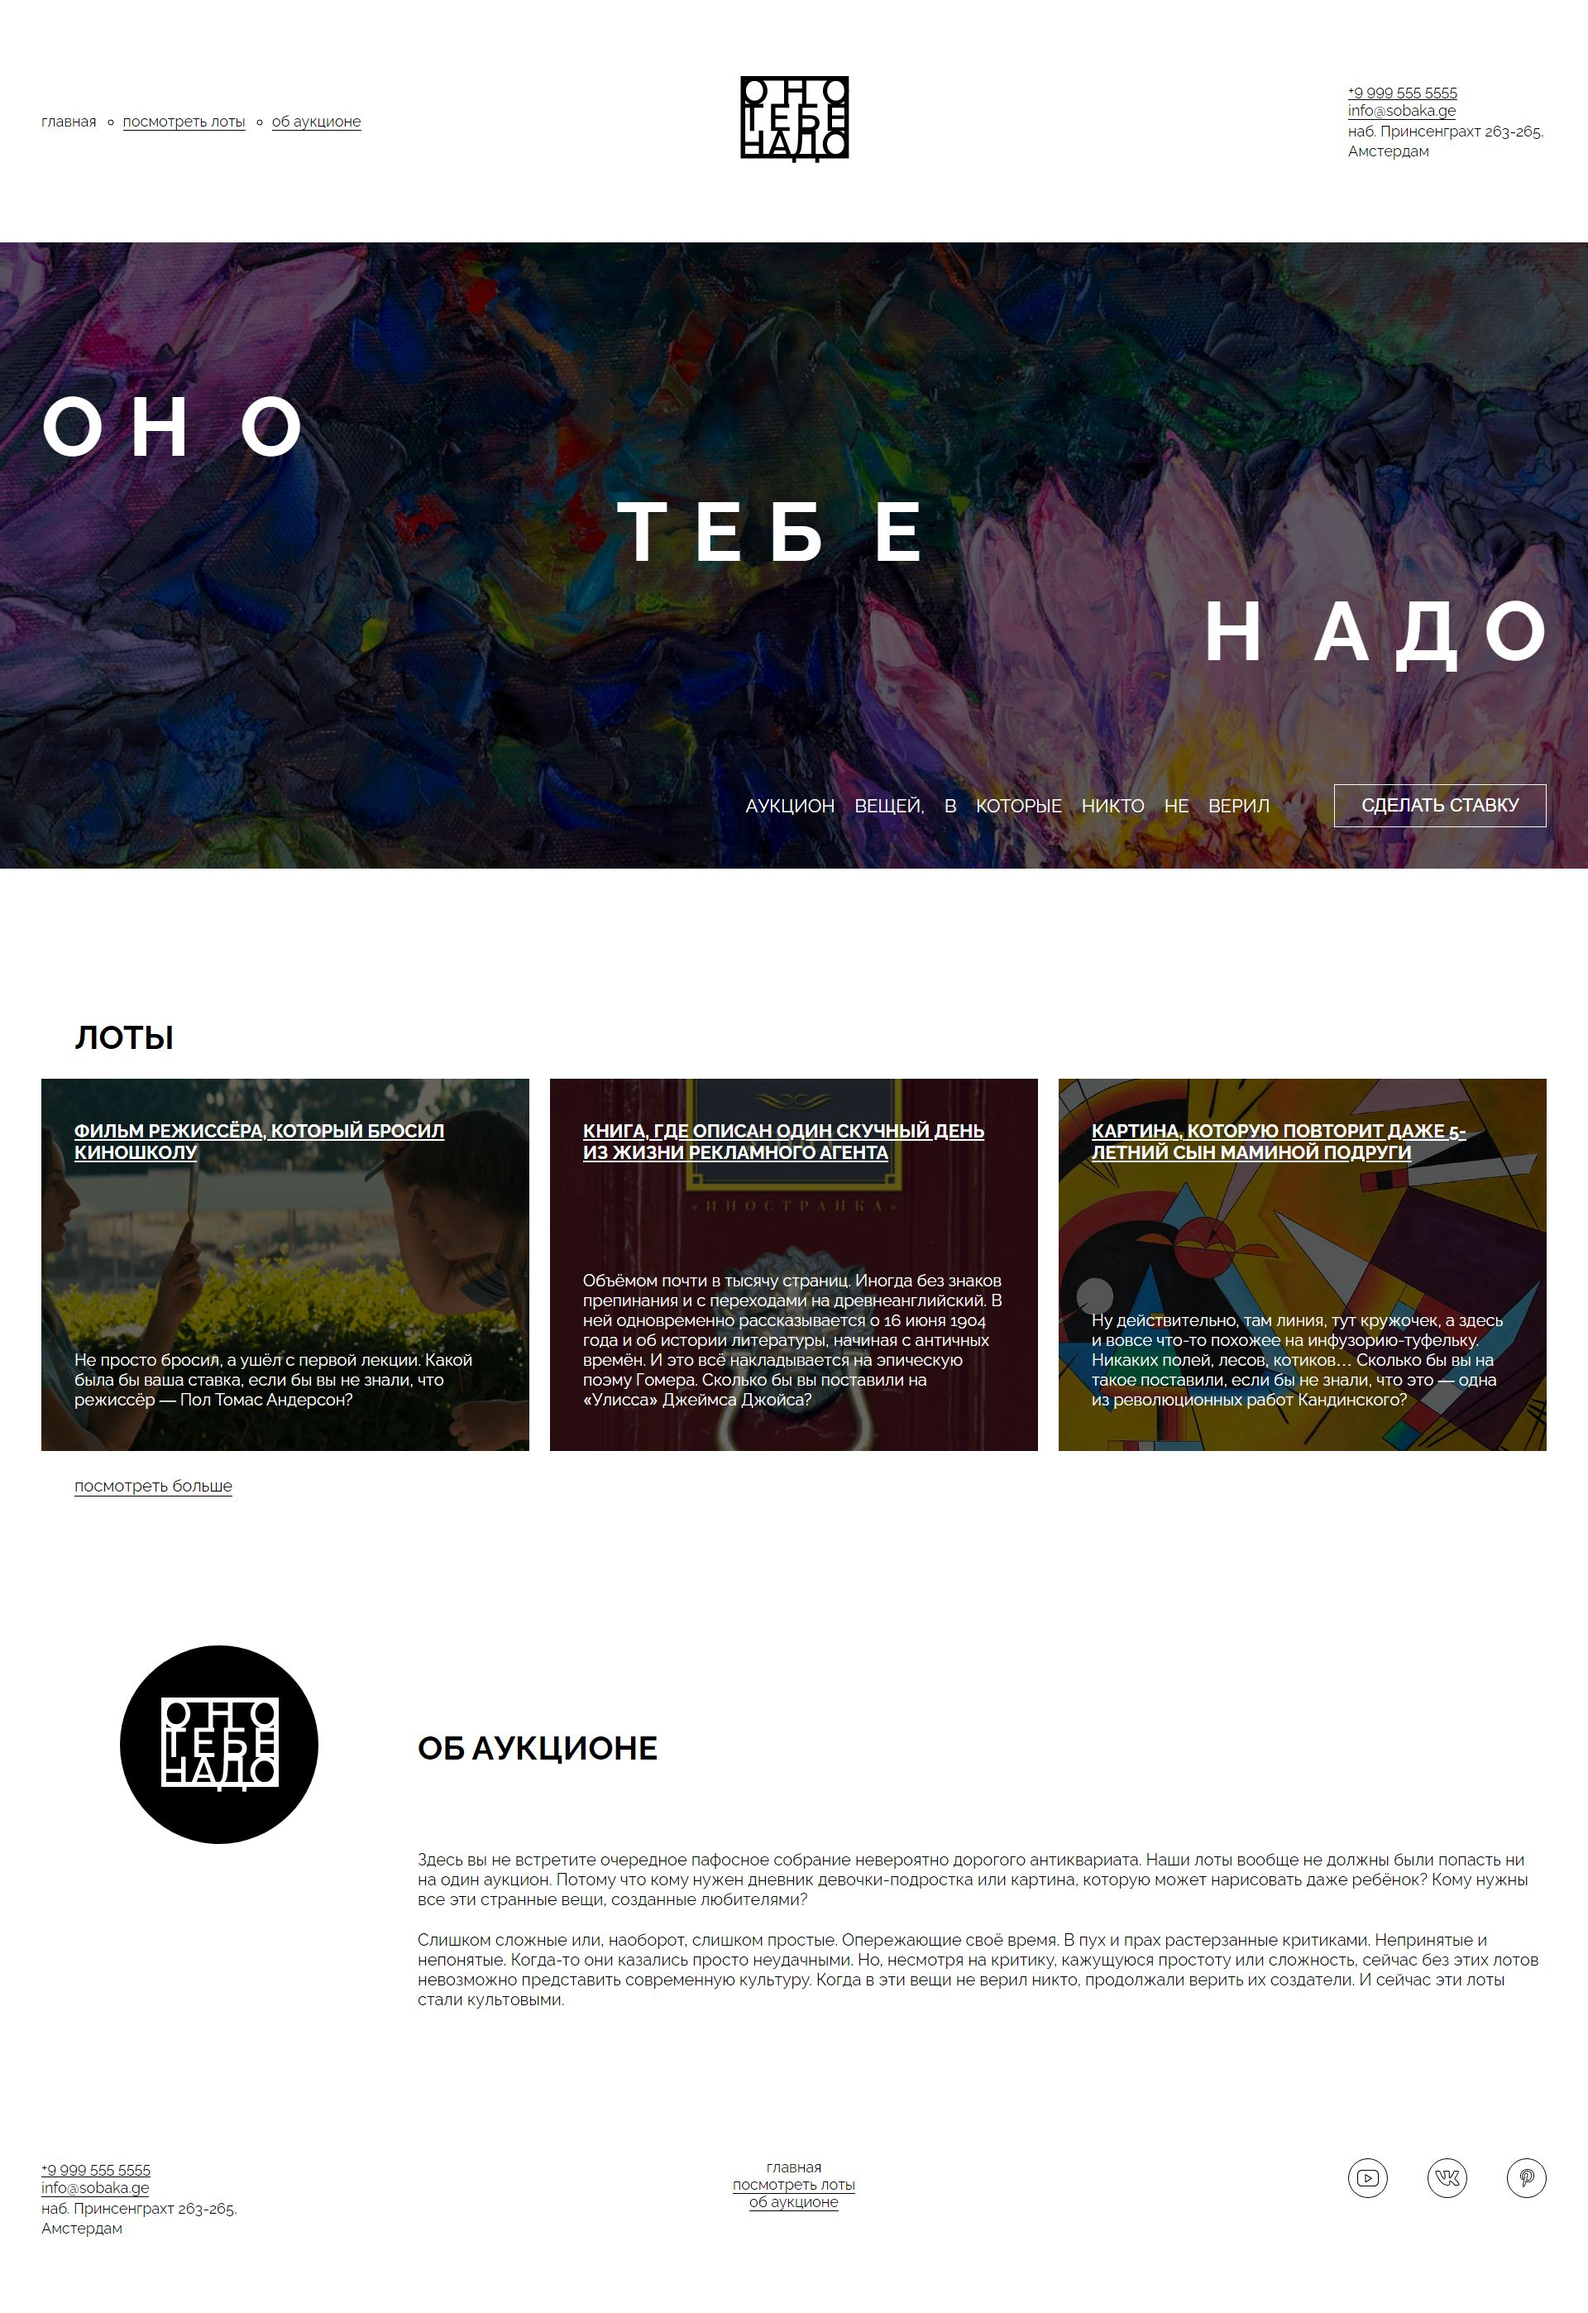
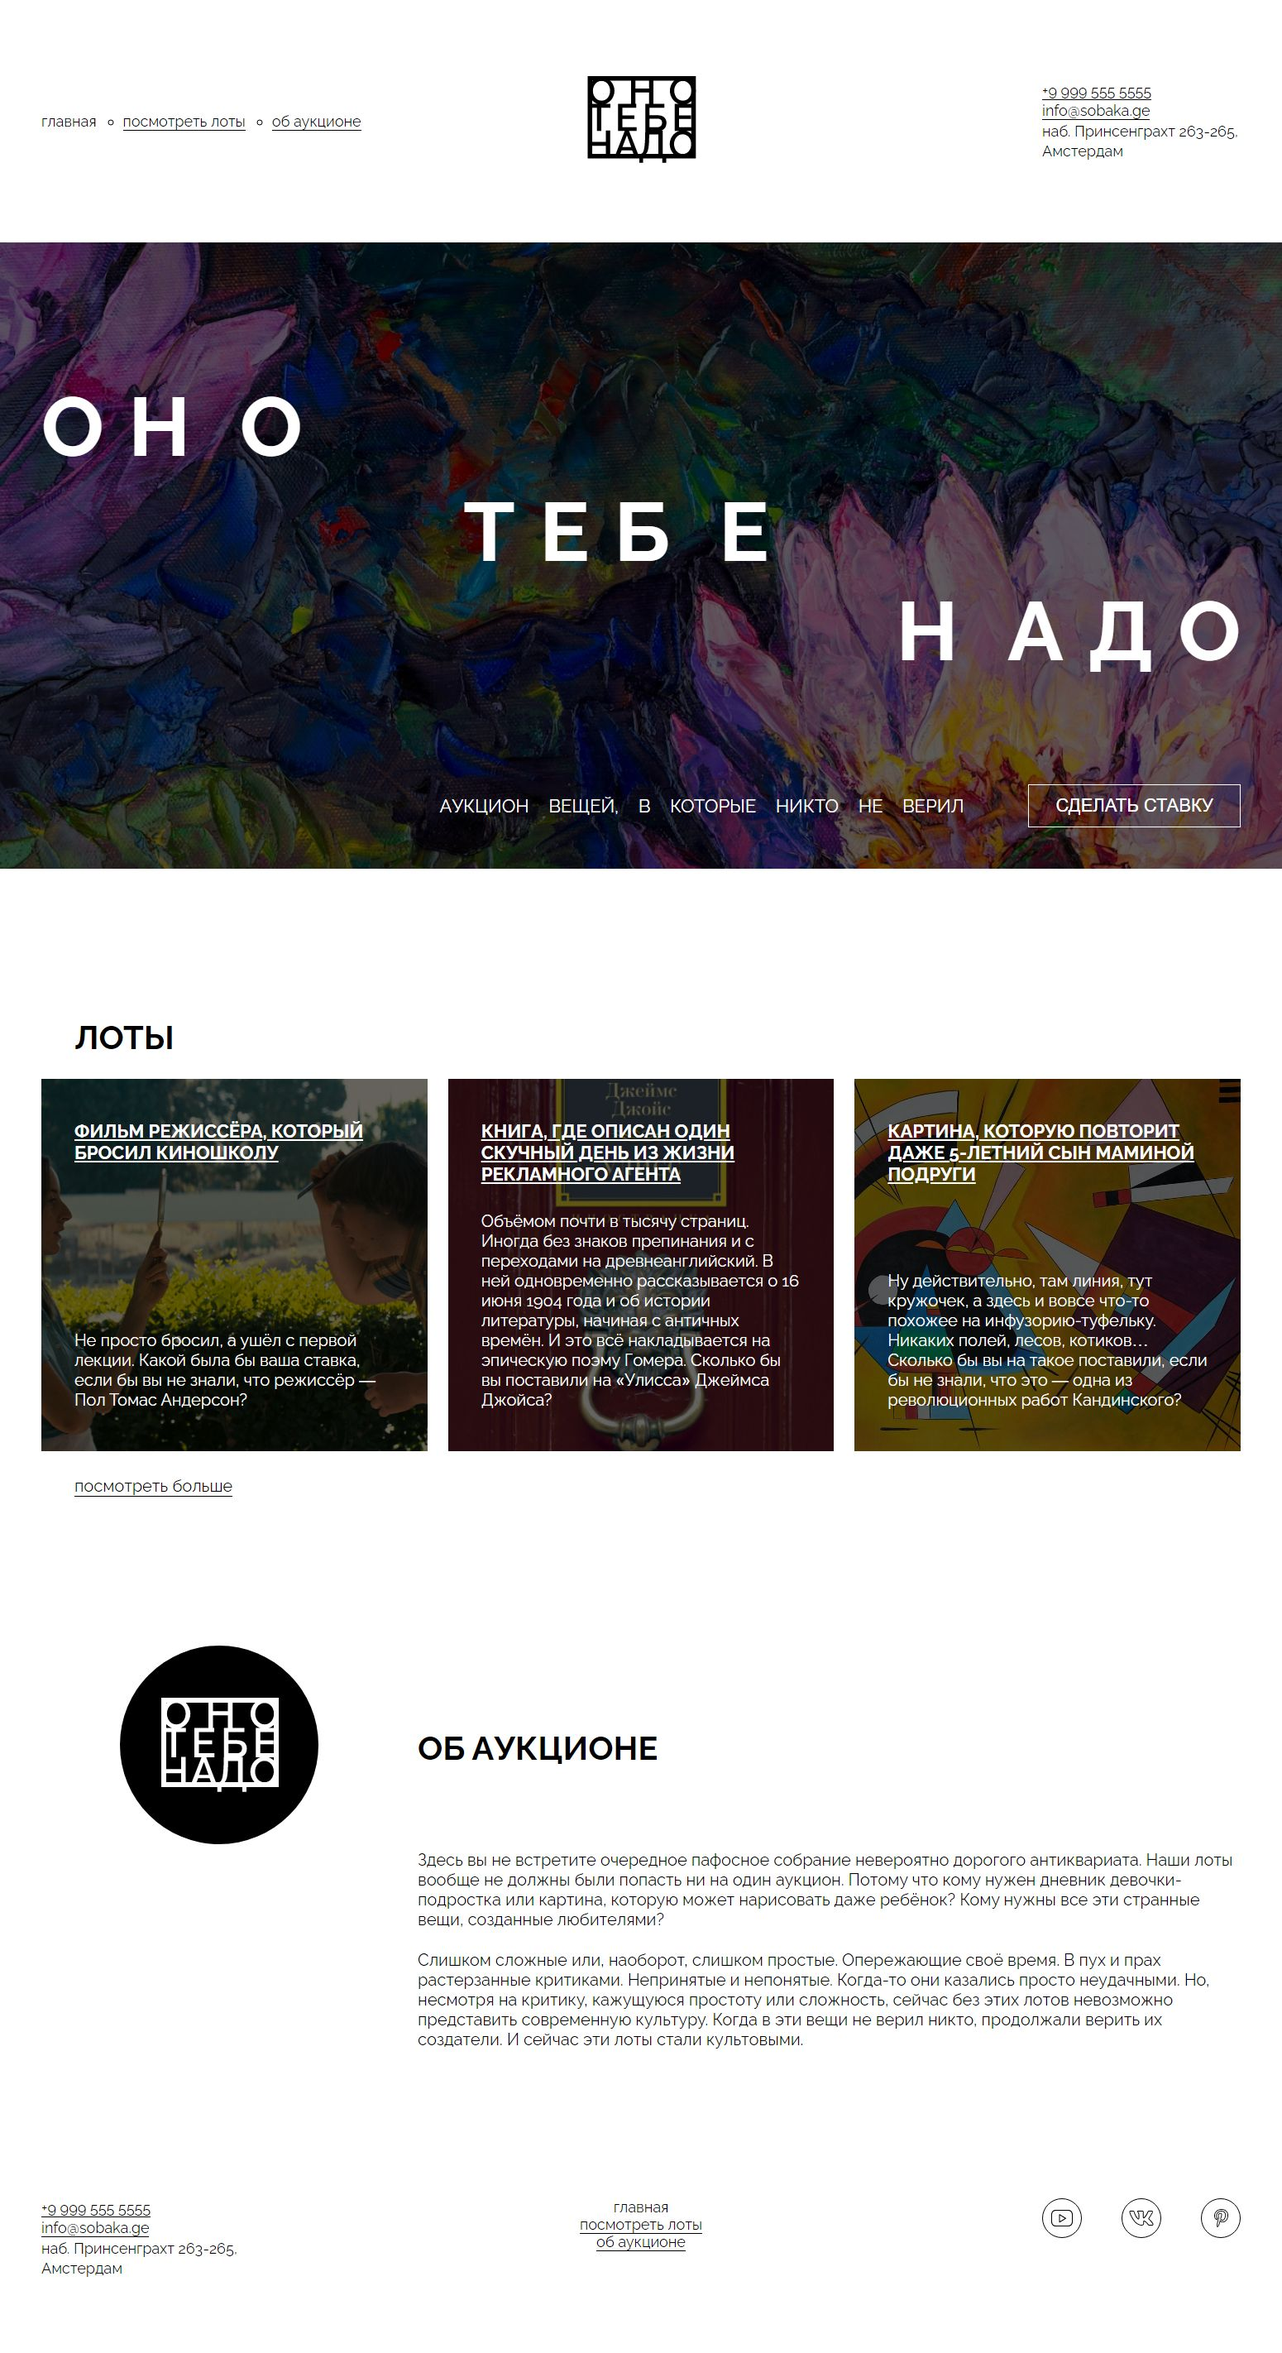
25daab139980df30d70fa0fed7ac0492323dc87f

diff --git a/src/puppeteer.js b/src/puppeteer.js
@@ -1,1 +1,1 @@
-import puppeteer from'puppeteer';import fileUrl from'file-url';export default(async a=>{const b=await puppeteer.launch({headless:!0}),c=await b.newPage();return await c.setViewport({width:1920,height:1080,deviceScaleFactor:1}),await c.goto(fileUrl(a),{waitUntil:'networkidle0'}),await c.waitForTimeout(3e3),{browser:b,page:c}});const hasElementBySelectors=async(a,b)=>{const c=await a.evaluate(a=>!!document.querySelector(a),b);return c},getElement=async(a,b)=>{const c=await a.evaluate(a=>document.querySelector(a),b);return c},getStyle=async(a,b,c)=>{const d=await a.evaluate((a,b)=>{const c=document.querySelector(a);return b.map(a=>window.getComputedStyle(c).getPropertyValue(a))},b,c);return d};export{hasElementBySelectors,getElement,getStyle};
+import puppeteer from'puppeteer';import fileUrl from'file-url';export default(async a=>{const b=await puppeteer.launch({headless:!0}),c=await b.newPage();return await c.setViewport({width:1550,height:1080,deviceScaleFactor:1}),await c.goto(fileUrl(a),{waitUntil:'networkidle0'}),await c.waitForTimeout(3e3),{browser:b,page:c}});const hasElementBySelectors=async(a,b)=>{const c=await a.evaluate(a=>!!document.querySelector(a),b);return c},getElement=async(a,b)=>{const c=await a.evaluate(a=>document.querySelector(a),b);return c},getStyle=async(a,b,c)=>{const d=await a.evaluate((a,b)=>{const c=document.querySelector(a);return b.map(a=>window.getComputedStyle(c).getPropertyValue(a))},b,c);return d};export{hasElementBySelectors,getElement,getStyle};
